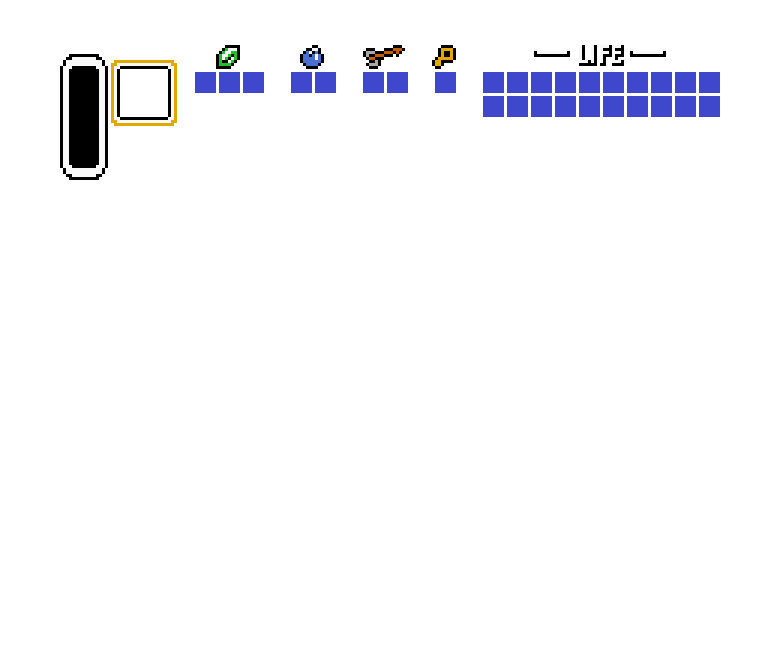
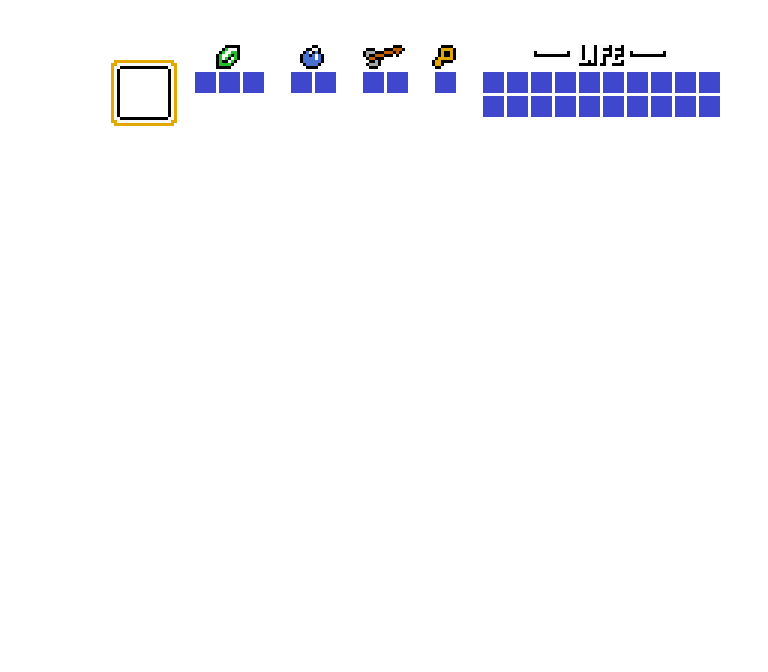
feat: implement player character magic gauge method(no leak, release check)

Changed region(s): [[0.0625, 0.0625, 0.1562, 0.2812]]

diff --git a/LinkToThePast/Zelda/PlayerCharacter_3.Debug.cpp b/LinkToThePast/Zelda/PlayerCharacter_3.Debug.cpp
@@ -3,6 +3,7 @@
 #include "Room.h"
 #include "BossGameMode.h"
 #include "ContentsEnum.h"
+#include "PlayerDataManager.h"
 
 #include <EngineCore/EngineCoreDebug.h>
 #include <EnginePlatform/EngineInput.h>
@@ -23,7 +24,7 @@ void APlayerCharacter::PrintDebugInfo(float DeltaTime)
 	UEngineDebug::CoreOutPutString("Level : " + GetWorld()->GetName(), GetDebugLocation(1));
 	UEngineDebug::CoreOutPutString("Room : " + GetCurRoom()->GetName(), GetDebugLocation(2));
 	UEngineDebug::CoreOutPutString("Collision : " + GetCollisionImage()->GetName(), GetDebugLocation(3));
-	UEngineDebug::CoreOutPutString("HP : " + std::to_string(this->CurrentHP), GetDebugLocation(4));
+	UEngineDebug::CoreOutPutString("HP : " + std::to_string(PlayerDataManager::GetInstance().GetHP()), GetDebugLocation(4));
 
 	if (true == HitCollision->IsActive())
 	{
@@ -87,8 +88,12 @@ void APlayerCharacter::PrintDebugInfo(float DeltaTime)
 		UEngineAPICore::GetCore()->ResetLevel<ABossGameMode, APlayerCharacter>("Boss");
 		UEngineAPICore::GetCore()->OpenLevel("Boss");
 	}
-	if (UEngineInput::GetInst().IsPress('T') == true)
+	if (UEngineInput::GetInst().IsPress(VK_NUMPAD8) == true)
 	{
-		//UEngineAPICore::GetCore()->SetTimeScale();
+		PlayerDataManager::GetInstance().AddMagicGaguge(1);
+	}
+	if (UEngineInput::GetInst().IsPress(VK_NUMPAD2) == true)
+	{
+		PlayerDataManager::GetInstance().AddMagicGaguge(-1);
 	}
 }

diff --git a/LinkToThePast/Zelda/ZeldaCore.cpp b/LinkToThePast/Zelda/ZeldaCore.cpp
@@ -99,7 +99,6 @@ void UZeldaCore::BeginPlay()
 	UImageManager::GetInst().CuttingSprite("FadeIn.png", { 800, 700 });
 	UImageManager::GetInst().CuttingSprite("FadeOut.png", { 800, 700 });
 
-
 	UEngineAPICore::GetCore()->GetMainWindow().SetWindowTitle("A link to the past");
 
 	int width = GetSystemMetrics(SM_CXSCREEN);
@@ -111,11 +110,10 @@ void UZeldaCore::BeginPlay()
 
 	UEngineAPICore::GetCore()->GetMainWindow().SetWindowPosAndScale(WindowResolution.Half() - InitWindowScale.Half(), InitWindowScale);
 
-
+	UEngineAPICore::GetCore()->CreateLevel<ATitleGameMode, AActor>("Title");
+	UEngineAPICore::GetCore()->CreateLevel<AHyruleCastleGameMode, APlayerCharacter>("HyruleCastle");
 	UEngineAPICore::GetCore()->CreateLevel<ACastleDungeonGameMode, APlayerCharacter>("CastleDungeon");
 	UEngineAPICore::GetCore()->CreateLevel<ABossGameMode, APlayerCharacter>("Boss");
-	UEngineAPICore::GetCore()->CreateLevel<AHyruleCastleGameMode, APlayerCharacter>("HyruleCastle");
-	//UEngineAPICore::GetCore()->CreateLevel<ATitleGameMode, AActor>("Title");
 
 	UEngineAPICore::GetCore()->OpenLevel("CastleDungeon");
 }

diff --git a/LinkToThePast/Zelda/UIManager.cpp b/LinkToThePast/Zelda/UIManager.cpp
@@ -1,12 +1,15 @@
 #include "PreCompile.h"
-#include "UserInterface.h"
+#include "UIManager.h"
+
+#include "UIMagicBar.h"
+
 #include "ContentsEnum.h"
 #include "PlayerCharacter.h"
 
 #include <EngineCore/EngineAPICore.h>
 #include <EngineCore/SpriteRenderer.h>
 
-AUserInterface::AUserInterface()
+AUIManager::AUIManager()
 {
 	SpriteRenderer = CreateDefaultSubObject<USpriteRenderer>();
 	SpriteRenderer->SetOrder(ERenderOrder::UI);
@@ -16,11 +19,19 @@ AUserInterface::AUserInterface()
 	SetActorLocation(UEngineAPICore::GetCore()->GetMainWindow().GetWindowSize().Half());
 }
 
-AUserInterface::~AUserInterface()
+AUIManager::~AUIManager()
 {
 }
 
-void AUserInterface::Tick(float DeltaTime)
+void AUIManager::BeginPlay()
+{
+	Super::BeginPlay();
+
+	MagicBar = GetWorld()->SpawnActor<AUIMagicBar>();
+	MagicBar->SetActorLocation(FVector2D(84, 117));
+}
+
+void AUIManager::Tick(float DeltaTime)
 {
 	Super::Tick(DeltaTime);
 

diff --git a/LinkToThePast/Zelda/PlayerCharacter_2.Util.cpp b/LinkToThePast/Zelda/PlayerCharacter_2.Util.cpp
@@ -2,6 +2,7 @@
 #include "PlayerCharacter.h"
 #include "Room.h"
 #include "HylianKnights.h"
+#include "PlayerDataManager.h"
 
 #include <EngineCore/EngineAPICore.h>
 
@@ -9,7 +10,7 @@ void APlayerCharacter::TakeDamage(int Damage, ABaseCharacter* Character)
 {
 	if (CurPlayerState == EPlayerState::KnockBack) return;
 
-	CurrentHP -= Damage;
+	PlayerDataManager::GetInstance().AddHP(-Damage);
 
 	this->KnockBackDir = GetActorLocation() - Character->GetActorLocation();
 	SetCurDirection(GetDirectionToTargetLocation(Character->GetActorLocation()));

diff --git a/LinkToThePast/Zelda/ZeldaGameMode.cpp b/LinkToThePast/Zelda/ZeldaGameMode.cpp
@@ -3,7 +3,7 @@
 #include "Room.h"
 #include "ContentsEnum.h"
 #include "PlayerCharacter.h"
-#include "UserInterface.h"
+#include "UIManager.h"
 #include "RoomMove.h"
 #include "EnemyCharacter.h"
 
@@ -64,7 +64,7 @@ void AZeldaGameMode::Tick(float DeltaTime)
 
 void AZeldaGameMode::UIBeginPlay()
 {
-	UI = GetWorld()->SpawnActor<AUserInterface>();
+	UI = GetWorld()->SpawnActor<AUIManager>();
 	UI->SetPlayer(this->PlayerCharacter);
 }
 

diff --git a/LinkToThePast/Zelda/PlayerDataManager.cpp b/LinkToThePast/Zelda/PlayerDataManager.cpp
@@ -1,0 +1,13 @@
+#include "PreCompile.h"
+#include "PlayerDataManager.h"
+
+#include "PlayerCharacter.h"
+
+PlayerDataManager::PlayerDataManager()
+{
+}
+
+PlayerDataManager::~PlayerDataManager()
+{
+}
+

diff --git a/LinkToThePast/Zelda/ContentsEnum.h b/LinkToThePast/Zelda/ContentsEnum.h
@@ -10,6 +10,8 @@ enum class ERenderOrder
 	SECOND_FLOOR = 5000,
 	SECOND_FLOOR_OBJ = 6000,
 	UI = 10000,
+	UI_GAGE = 10001,
+	UI_FRAME = 10002,
 	FADE = 30000,
 };
 
